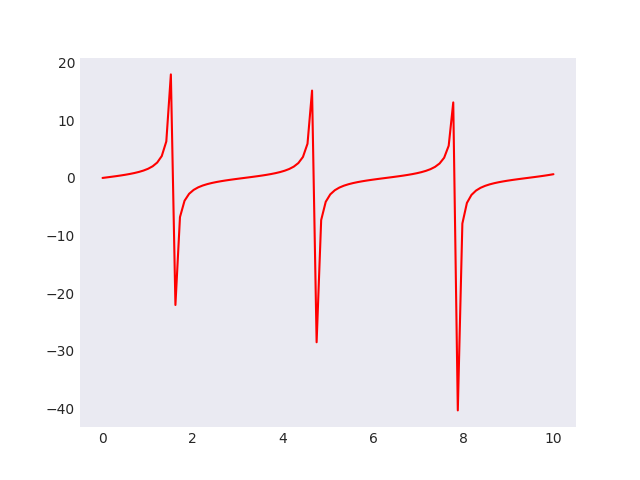
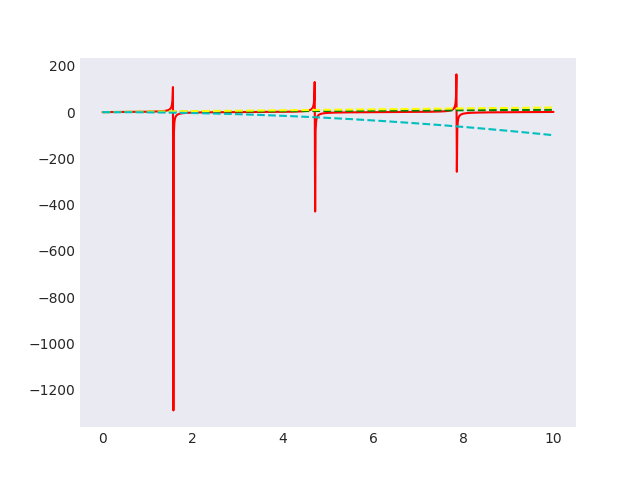
committed

diff --git a/lineplot.py b/lineplot.py
@@ -6,7 +6,7 @@ plt.style.use('seaborn-v0_8-dark')
 print(plt.style.available)
 
 #x is indepentent variable 
-x_vals = np.linspace(0,10,100)
+x_vals = np.linspace(0,10,1000)
 
 #line plots are good when graphing functions
 plt.plot(x_vals, np.sin(x_vals))
@@ -21,5 +21,27 @@ fig = plt.figure()
 ax = plt.axes()
 
 ax.plot(x_vals, np.tan(x_vals), color='red')
+ax.plot(x_vals, x_vals, color='green', linestyle='dashed')
+ax.plot(x_vals, 2*x_vals, color='yellow', linestyle='dashed')
+
+ax.plot(x_vals, -x_vals*x_vals, '--c')
 
 fig.savefig('lineplot2.png')
+
+fig3 = plt.figure()
+ax3 = plt.axes()
+
+plt.plot(x_vals, np.sin(x_vals), label ="sin(x)")
+plt.xlim(-1,11)
+plt.ylim(-10,10)
+
+#plt.axis('tight')
+
+#add titles /labels
+plt.title('a sin wave')
+plt.xlabel("x")
+plt.ylabel("sin(x)")
+#add legend 
+plt.legend()
+
+fig3.savefig('lineplot3.png')
